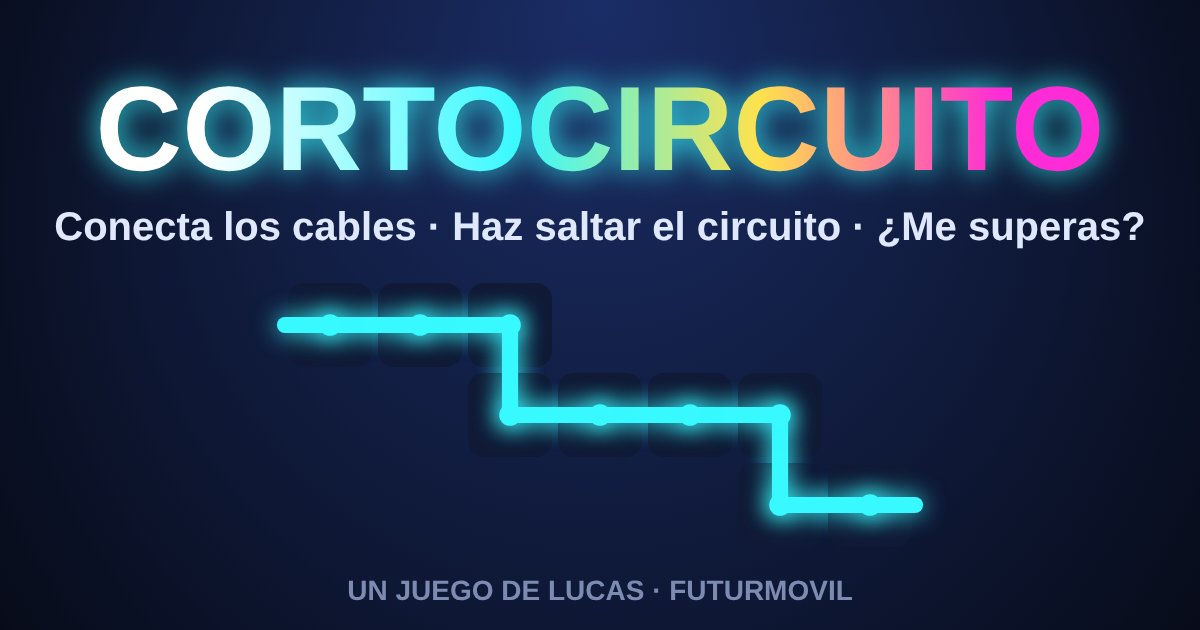
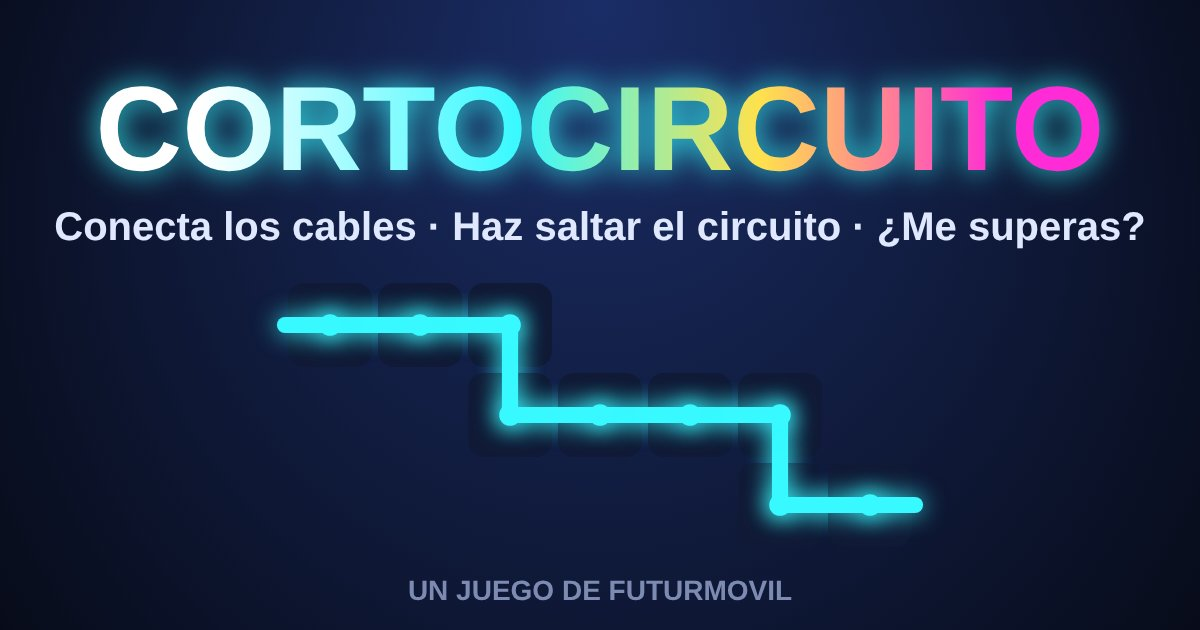
Add files via upload

Changed region(s): [[0.2775, 0.9048, 0.7092, 0.9651]]

diff --git a/index.html b/index.html
@@ -3,12 +3,12 @@
 <head>
 <meta charset="utf-8">
 <meta name="viewport" content="width=device-width, initial-scale=1, viewport-fit=cover, user-scalable=no">
-<title>CORTOCIRCUITO ⚡ Lucas</title>
-<meta name="description" content="Conecta los cables de lado a lado y haz saltar el circuito. ¿Cuántas cadenas aguantas? Un juego de Lucas · FuturMovil.">
+<title>CORTOCIRCUITO ⚡ FuturMovil</title>
+<meta name="description" content="Conecta los cables de lado a lado y haz saltar el circuito. ¿Cuántas cadenas aguantas? Un juego de FuturMovil.">
 <meta name="theme-color" content="#05070f">
 <meta property="og:type" content="website">
 <meta property="og:title" content="CORTOCIRCUITO ⚡ ¿Me superas?">
-<meta property="og:description" content="Conecta los cables de lado a lado y haz saltar el circuito. Juego de Lucas · FuturMovil">
+<meta property="og:description" content="Conecta los cables de lado a lado y haz saltar el circuito. Un juego de FuturMovil">
 <meta property="og:url" content="https://puntofibra.github.io/cortocircuito/">
 <meta property="og:image" content="https://puntofibra.github.io/cortocircuito/og.jpg">
 <meta property="og:image:width" content="1200">
@@ -162,7 +162,7 @@ ol.rank li.me{background:rgba(56,249,255,.08);border-radius:8px}
     <button class="big alt" id="bInstall">⬇ INSTALAR</button>
   </div>
   <button class="big alt" id="bWeb" style="margin-top:8px">🌐 WEB DEL CREADOR</button>
-  <div class="brand"><img id="brandLogo" alt="" style="display:none">UN JUEGO DE LUCAS · FUTURMOVIL</div>
+  <div class="brand"><img id="brandLogo" alt="" style="display:none">UN JUEGO DE FUTURMOVIL</div>
 </div></div>
 
 <!-- PAUSA -->

diff --git a/sw.js b/sw.js
@@ -1,4 +1,4 @@
-const CACHE = 'cortocircuito-v1';
+const CACHE = 'cortocircuito-v2';
 self.addEventListener('install', e => { self.skipWaiting(); e.waitUntil(caches.open(CACHE).then(c => c.addAll(['./', 'index.html', 'manifest.json', 'icon-192.png']).catch(() => {}))); });
 self.addEventListener('activate', e => { e.waitUntil(caches.keys().then(ks => Promise.all(ks.filter(k => k !== CACHE).map(k => caches.delete(k)))).then(() => self.clients.claim())); });
 self.addEventListener('fetch', e => {
